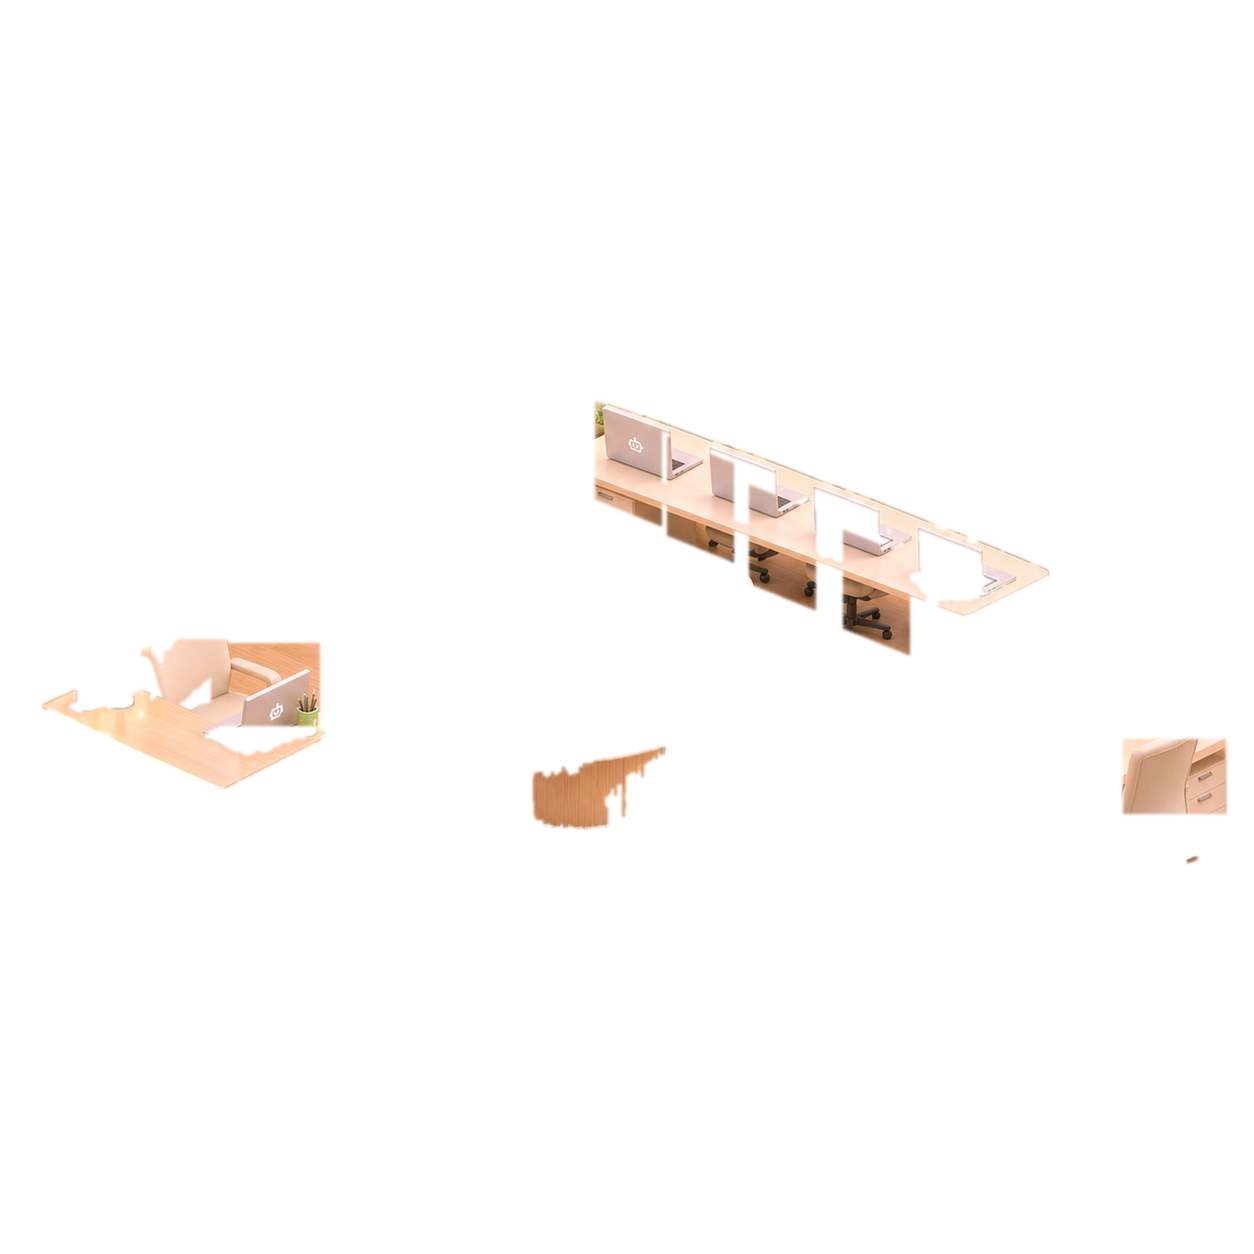
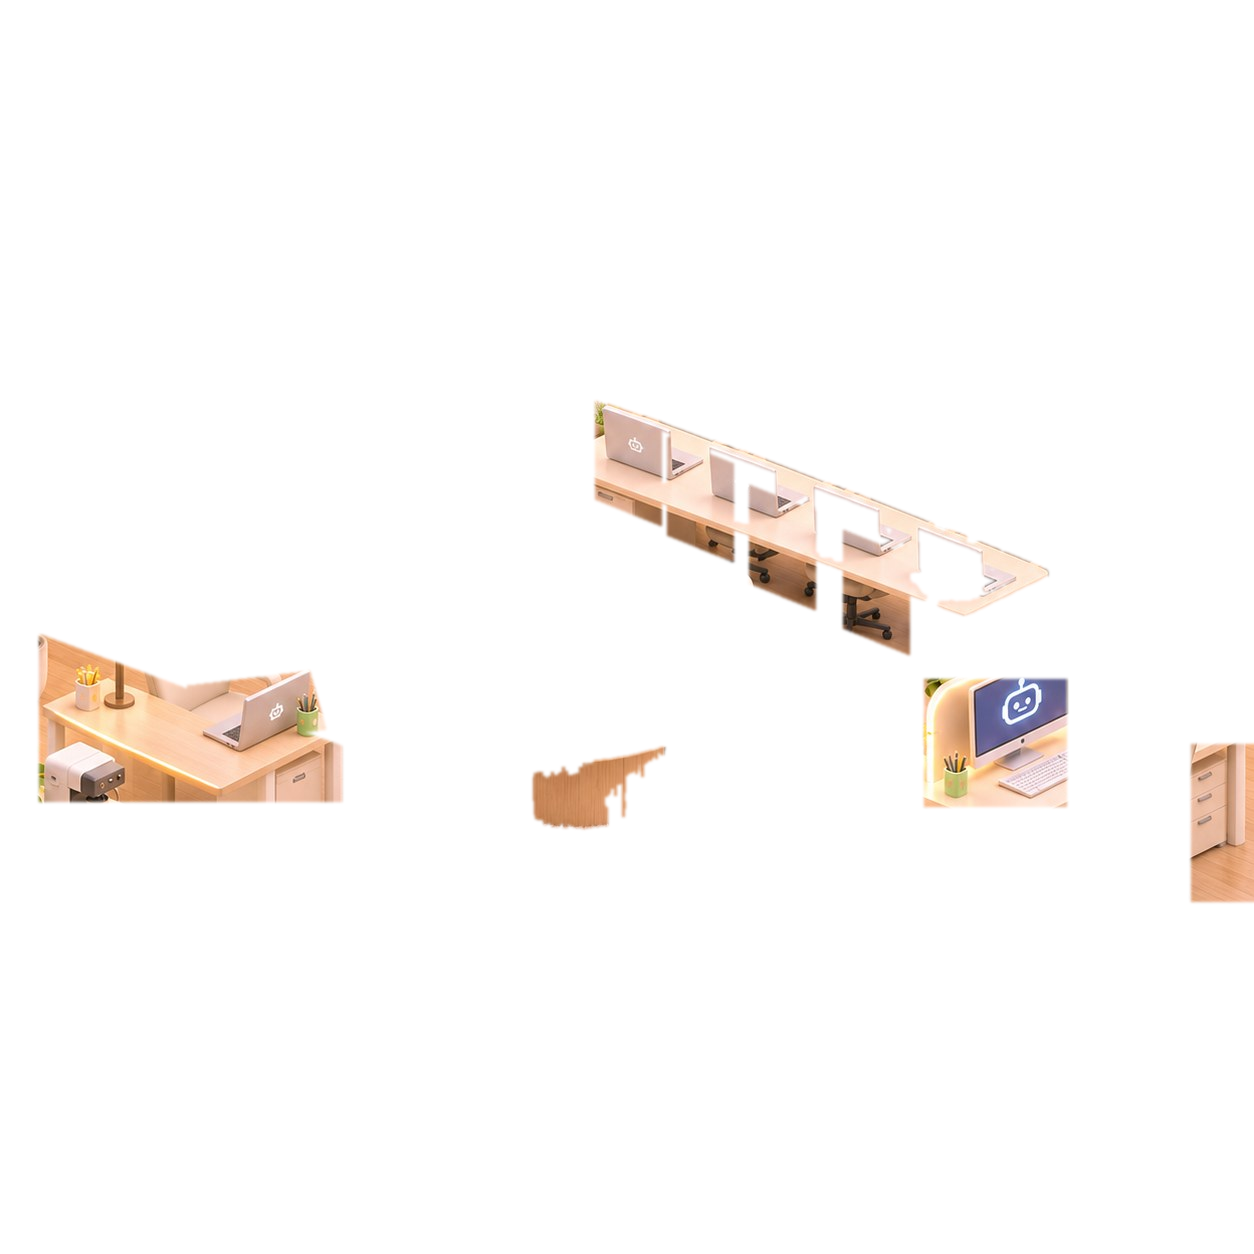
2.5D 오피스 보정 — 부이·큐 몸통 가림 해소(전경 마스크 재작성), 키링 원탁 의자 정중앙으로, 하단 아바타 접속 표시를 방 멤버 명단 기준으로 수정

Changed region(s): [[0.7153, 0.5287, 1.0, 0.7464], [0.0311, 0.4976, 0.2799, 0.6531]]

diff --git a/index.html b/index.html
@@ -2687,11 +2687,11 @@
       life: ['스트레칭하는 중이에요', '따뜻한 차 마시는 중이에요', '눈 깜빡이는 중이에요'] },
     { k: 'muse',     name: '뮤즈',     tag: '',        x: 398,  y: 674,  h: 176, clip: 0,  ar: 0.7068, motion: 'm-sway',
       life: ['가만히 앉아 있는 중이에요', '생각 정리하는 중이에요', '꼬리 휘적이는 중이에요'] },
-    { k: 'kyring',   name: '키링',     tag: '',        x: 702,  y: 694,  h: 150, clip: 0,  ar: 0.6955, motion: 'm-sway',
+    { k: 'kyring',   name: '키링',     tag: '',        x: 710,  y: 698,  h: 150, clip: 0,  ar: 0.6955, motion: 'm-sway',
       life: ['낮잠 자는 중이에요', '눈 감고 쉬는 중이에요', '꼬리 흔드는 중이에요'] },
-    { k: 'q',        name: '큐',       tag: '',        x: 210,  y: 694,  h: 164, clip: 12, ar: 0.7000, motion: 'm-type',
+    { k: 'q',        name: '큐',       tag: '',        x: 198,  y: 712,  h: 164, clip: 12, ar: 0.7000, motion: 'm-type',
       life: ['음악 듣는 중이에요', '리듬 타는 중이에요', '헤드셋 끼고 쉬는 중이에요'] },
-    { k: 'vooy',     name: '부이',     tag: '',        x: 1126, y: 850,  h: 150, clip: 8,  ar: 0.7432, motion: 'm-type',
+    { k: 'vooy',     name: '부이',     tag: '',        x: 1146, y: 848,  h: 150, clip: 8,  ar: 0.7432, motion: 'm-type',
       life: ['커피 타러 가는 중이에요', '팔짱 끼고 쉬는 중이에요', '기지개 켜는 중이에요'] },
     { k: 'hama',     name: '하마뮤즈', tag: '',        x: 438,  y: 1012, h: 176, clip: 0,  ar: 0.6114, motion: 'm-sip',
       life: ['커피 마시고 있어요', '따뜻한 차 마시고 있어요', '한 모금 홀짝이는 중이에요'] },
@@ -2701,6 +2701,7 @@
       life: ['책 읽는 중이에요', '안경 고쳐 쓰는 중이에요', '페이지 넘기는 중이에요'] }
   ];
 
+  var AGC_DEFAULT = { '초록': 1, '노랑': 1, '막내': 1, '진분홍': 1 };  // 피클즈 4인 = 단톡방 상주(기본 접속)
   var AGC_ON = { '초록': 1, '노랑': 1, '막내': 1, '진분홍': 1 };
   function statusDot(n) {
     return '<i class="o25-bub-dot' + (AGC_ON[n] ? ' on' : '') + '"></i>';
@@ -2876,8 +2877,11 @@
 
   /* ── 단톡방 실시간 연동 ─────────────────────────────────
      · 방 주인 비밀번호가 이 브라우저(localStorage)에 있을 때만 조용히 동작
-     · 최근 30분 안에 실제로 주고받은 메시지만 말풍선・접속 표시에 사용
-     · 토큰이 없거나 요청이 실패하면 기본 명단 그대로 (콘솔 오류 없이) */
+     · 접속(온라인) 판정 = ① 방 멤버 명단(/agents, enabled) ② 최근 30분 대화
+       — 예전에는 '최근 30분 대화'만 봐서, 방이 조용한 시간대엔 피클즈 4인이
+         전부 회색으로 죽어 보였다. 이제는 방에 입주해 있으면 컬러.
+     · 명단에 없는 캐릭터는 기본값(피클즈 4인 접속 중) 유지, 명단에서 꺼진(enabled=false) 멤버만 회색
+     · 토큰이 없거나 요청이 실패하면 기본값 그대로 (콘솔 오류 없이) */
   (function () {
     var TOKEN_KEY = 'naeun:agc-token:v1';
     var API = 'https://ai-group-chat.jinphoto20211.workers.dev';
@@ -2886,16 +2890,30 @@
     try { token = localStorage.getItem(TOKEN_KEY) || ''; } catch (e) { token = ''; }
     if (!token) return;
 
-    function norm(s) { return String(s == null ? '' : s).replace(/[\s@()\[\]·._-]/g, ''); }
+    /* 발신자・멤버 이름 표기 흔들림 → 화면 캐릭터 */
+    var ALIAS = {
+      '피클서브': '노랑', '피클서브2': '노랑', '노랑이': '노랑', '노랑피클': '노랑', '서브피클': '노랑',
+      '메인': '초록', '메인피클': '초록', '초록이': '초록',
+      '막내피클': '막내', '막내이': '막내', '연분홍': '막내', '연분홍이': '막내',
+      '진분홍이': '진분홍', '분홍이': '진분홍',
+      '하마': '하마뮤즈', '하마보스': '하마뮤즈', '뮤즈이': '뮤즈',
+      '키링이': '키링', '큐브': '큐', '부이봇': '부이', '인스팅트ai': '인스팅트'
+    };
+    function norm(s) { return String(s == null ? '' : s).replace(/[\s@()\[\]·._,|\\/-]/g, '').toLowerCase(); }
     function matchChar(name) {
-      var n = norm(name);
+      var n = norm(name), i, cn, best = null, bestLen = 0;
       if (!n) return null;
-      for (var i = 0; i < CHARS.length; i++) {
-        var cn = norm(CHARS[i].name);
-        if (cn === n) return CHARS[i];
-        if (n.length >= 2 && n.indexOf(cn) === 0) return CHARS[i];
-        if (cn.indexOf(n) === 0 && n.length >= 2) return CHARS[i];
+      for (i = 0; i < CHARS.length; i++) {
+        cn = norm(CHARS[i].name);
+        if (cn && cn === n) return CHARS[i];
+        if (cn && cn.length >= 2 && n.indexOf(cn) === 0 && cn.length > bestLen) { best = CHARS[i]; bestLen = cn.length; }
       }
+      for (i = 0; i < CHARS.length && !best; i++) {
+        cn = norm(CHARS[i].name);
+        if (cn && cn.length >= 2 && n.indexOf(cn) >= 0 && cn.length > bestLen) { best = CHARS[i]; bestLen = cn.length; }
+      }
+      if (best) return best;
+      if (ALIAS[n] && byName[ALIAS[n]]) return byName[ALIAS[n]];
       return null;
     }
     function getJSON(path) {
@@ -2906,6 +2924,40 @@
       var s = String(t == null ? '' : t).replace(/\s+/g, ' ').trim();
       if (!s) return '';
       return s.length > 26 ? s.slice(0, 25) + '…' : s;
+    }
+
+    /* 접속 상태 반영 — 말풍선 점・아바타 바 컬러를 한 곳에서 같이 바꾼다 */
+    function applyPresence(agents, messages) {
+      var now = Date.now();
+      if (messages) {
+        messages.forEach(function (m) {
+          if (!m || !m.sender || m.sender.role === 'system') return;
+          var c = matchChar(m.sender.name);
+          if (!c) return;
+          var at = Date.parse(m.at) || 0, text = trimLine(m.text);
+          if (!at || !text) return;
+          if (!c.live || at >= c.live.at) c.live = { text: text, at: at };
+        });
+      }
+      var member = {}, found = 0;
+      if (agents) {
+        agents.forEach(function (a) {
+          var c = matchChar(a && a.name);
+          if (!c) return;
+          found++;
+          member[c.name] = !!member[c.name] || !!(a && a.enabled);
+        });
+      }
+      CHARS.forEach(function (c) {
+        if (c.live && now - c.live.at >= ACTIVE_MS) c.live = null;
+        var recent = !!(c.live && now - c.live.at < ACTIVE_MS);
+        var on;
+        if (found && member.hasOwnProperty(c.name)) on = member[c.name] || recent;
+        else on = !!AGC_DEFAULT[c.name] || recent;   // 명단에 없거나 못 읽었으면 기본값
+        window.o25SetChatStatus(c.name, on);
+      });
+      if (typeof refreshBubbles === 'function') refreshBubbles();
+      rotateBubbles();
     }
 
     var roomId = null, busy = false;
@@ -2921,25 +2973,15 @@
       });
       chain.then(function (id) {
         if (!id) return null;
-        return getJSON('/api/admin/rooms/' + encodeURIComponent(id) + '/messages?limit=60&since=0');
-      }).then(function (d) {
-        if (!d) return;
-        var now = Date.now();
-        var list = (d.messages || []).filter(function (m) { return m && m.sender && m.sender.role !== 'system'; });
-        list.forEach(function (m) {
-          var c = matchChar(m.sender.name);
-          if (!c) return;
-          var at = Date.parse(m.at) || 0, text = trimLine(m.text);
-          if (!at || !text) return;
-          if (!c.live || at >= c.live.at) c.live = { text: text, at: at };
-        });
-        CHARS.forEach(function (c) {
-          if (c.live && now - c.live.at >= ACTIVE_MS) c.live = null;
-          var on = !!(c.live && now - c.live.at < ACTIVE_MS);
-          window.o25SetChatStatus(c.name, on);
-        });
-        if (typeof refreshBubbles === 'function') refreshBubbles();
-        rotateBubbles();
+        var base = '/api/admin/rooms/' + encodeURIComponent(id);
+        var since = encodeURIComponent(new Date(Date.now() - ACTIVE_MS).toISOString());
+        return Promise.all([
+          getJSON(base + '/agents').catch(function () { return null; }),
+          getJSON(base + '/messages?limit=60&since=' + since).catch(function () { return null; })
+        ]);
+      }).then(function (res) {
+        if (!res) return;
+        applyPresence(res[0] && res[0].agents, res[1] && res[1].messages);
       }).catch(function () {}).then(function () { busy = false; });
     }
     sync();

diff --git a/build-fg.py b/build-fg.py
@@ -1,8 +1,15 @@
-"""office-fg.png — 캐릭터 위에 겹칠 전경 가구(책상 표면 + 노트북)만 떼어낸다.
+"""office-fg.png — 캐릭터 위에 겹칠 '앞쪽 가구'만 떼어낸다.
 
-배경 사진에서 책상 표면은 flood fill 로 따고(가구 경계에서 멈춤),
-책상 위 노트북은 화면에서 읽은 사각형으로 더한다.
-마지막에 살짝 번지게 해서 캐릭터 하단이 부드럽게 가려지도록.
+전경 레이어는 배경 사진의 같은 픽셀을 그대로 복사한 것이라,
+캐릭터가 없는 곳을 덮어도 화면은 똑같다. 그래서 여기서 중요한 것은
+'어떤 캐릭터의 어디까지를 가릴지' = 덮는 영역의 경계선이다.
+
+- 롱데스크: 책상 상판 + 노트북 4대 (뒤에 앉은 4인은 상판 뒤 가장자리에서 잘림)
+- 왼쪽 책상: 상판 뒤 가장자리 선(아이소메트릭 기울기) 아래 + 노트북
+  · 예전에는 flood fill 이 의자 등받이까지 번지고 사각형이 노트북 위쪽을 덮어
+    큐의 몸통을 가렸다 → 선 아래로 자르는 방식으로 바꿈
+- 오른쪽 책상: 모니터 + 앞 오른쪽 모서리만
+  · 예전 사각형(1124,740)-(1224,812)이 의자 등받이를 덮어 부이 몸통을 가렸다 → 삭제
 """
 import numpy as np
 from PIL import Image, ImageDraw, ImageFilter
@@ -26,36 +33,50 @@ def flood(seed, thresh, box):
 
 
 mask = np.zeros((H, W), dtype=bool)
-# 긴 책상(노트북 4대 놓인 상판)
-mask |= flood((700, 470), 38, (595, 400, 1050, 620))
-# 왼쪽 책상
-mask |= flood((200, 715), 34, (40, 640, 330, 790))
-# 가운데 원탁
-mask |= flood((600, 780), 34, (405, 715, 790, 860))
-# 오른쪽 책상(모니터 자리)
-mask |= flood((1190, 860), 34, (1050, 700, 1254, 900))
 
-# 노트북 (책상 뒤 좌석 캐릭터를 가리도록 상판 위쪽까지)
-# — 컷 선이 수평으로 보이지 않게 노트북 덮개의 기울기(아이소메트릭)를 따라 사각형을 비스듬히 그린다.
+# ── 긴 책상(피클즈 4인 자리) 상판 ─────────────────────────────
+mask |= flood((700, 470), 38, (595, 400, 1050, 620))
+
+# ── 왼쪽 책상(큐) — 상판 뒤 가장자리 선 아래만 ────────────────
+# 선: (210, 698) 을 지나고 아이소메트릭 기울기 0.37
+SLOPE = 0.37
+yy = np.arange(H)[:, None]
+xx = np.arange(W)[None, :]
+left_edge = 698 + (xx - 210) * SLOPE
+left_zone = (xx >= 40) & (xx <= 340) & (yy >= left_edge) & (yy <= 800)
+mask |= left_zone
+
+# ── 노트북 4대(긴 책상) — 덮개 기울기를 따라 비스듬히 ─────────
 lap = Image.new('L', (W, H), 0)
 d = ImageDraw.Draw(lap)
-SLOPE = 0.42  # 긴 책상 쪽 덮개 윗면 기울기
-def lid(x0, y0, w=64, h=96, slope=SLOPE):
-    d.polygon([(x0, y0), (x0 + w, y0 + w * slope), (x0 + w, y0 + w * slope + h), (x0, y0 + h)], fill=255)
+
+
+def lid(x0, y0, w=64, h=96, slope=0.42):
+    d.polygon([(x0, y0), (x0 + w, y0 + w * slope),
+               (x0 + w, y0 + w * slope + h), (x0, y0 + h)], fill=255)
+
 
 lid(596, 402)
 lid(668, 438)
 lid(750, 486)
 lid(844, 531)
-# 옆 책상 노트북(반대 기울기)
-d.rectangle((212, 644, 318, 724), fill=255)
-d.rectangle((1124, 740, 1224, 812), fill=255)
-lap_m = np.asarray(lap) > 0
 
-mask |= lap_m
+# ── 왼쪽 책상 노트북(큐 앞) — 실제 노트북 네 꼭짓점 ────────────
+d.polygon([(188, 686), (308, 672), (324, 728), (204, 746)], fill=255)
+
+# ── 가운데 원탁 — 테이블 아래쪽(다리·그림자)만 ─────────────────
+mask |= flood((600, 780), 34, (405, 715, 790, 860))
+
+# ── 오른쪽 책상(부이) — 모니터 + 앞 오른쪽 모서리만 ────────────
+d.rectangle((925, 680, 1065, 805), fill=255)     # 모니터·스탠드
+d.polygon([(1192, 745), (1254, 745), (1254, 900), (1192, 900)], fill=255)  # 책상 앞 오른쪽 모서리
+
+mask |= np.asarray(lap) > 0
 
 alpha = Image.fromarray((mask * 255).astype('uint8'), 'L')
 alpha = alpha.filter(ImageFilter.MaxFilter(3)).filter(ImageFilter.GaussianBlur(1.3))
 img = np.asarray(im).astype(np.uint8)
-Image.fromarray(np.dstack([img, np.asarray(alpha)]), 'RGBA').save(OUT)
+rgb = img.copy()
+rgb[np.asarray(alpha) == 0] = 0      # 투명 영역 RGB 를 0으로 → PNG 20배 이상 작아짐(화면 동일)
+Image.fromarray(np.dstack([rgb, np.asarray(alpha)]), 'RGBA').save(OUT, optimize=True)
 print('saved', OUT, int(mask.sum()))
